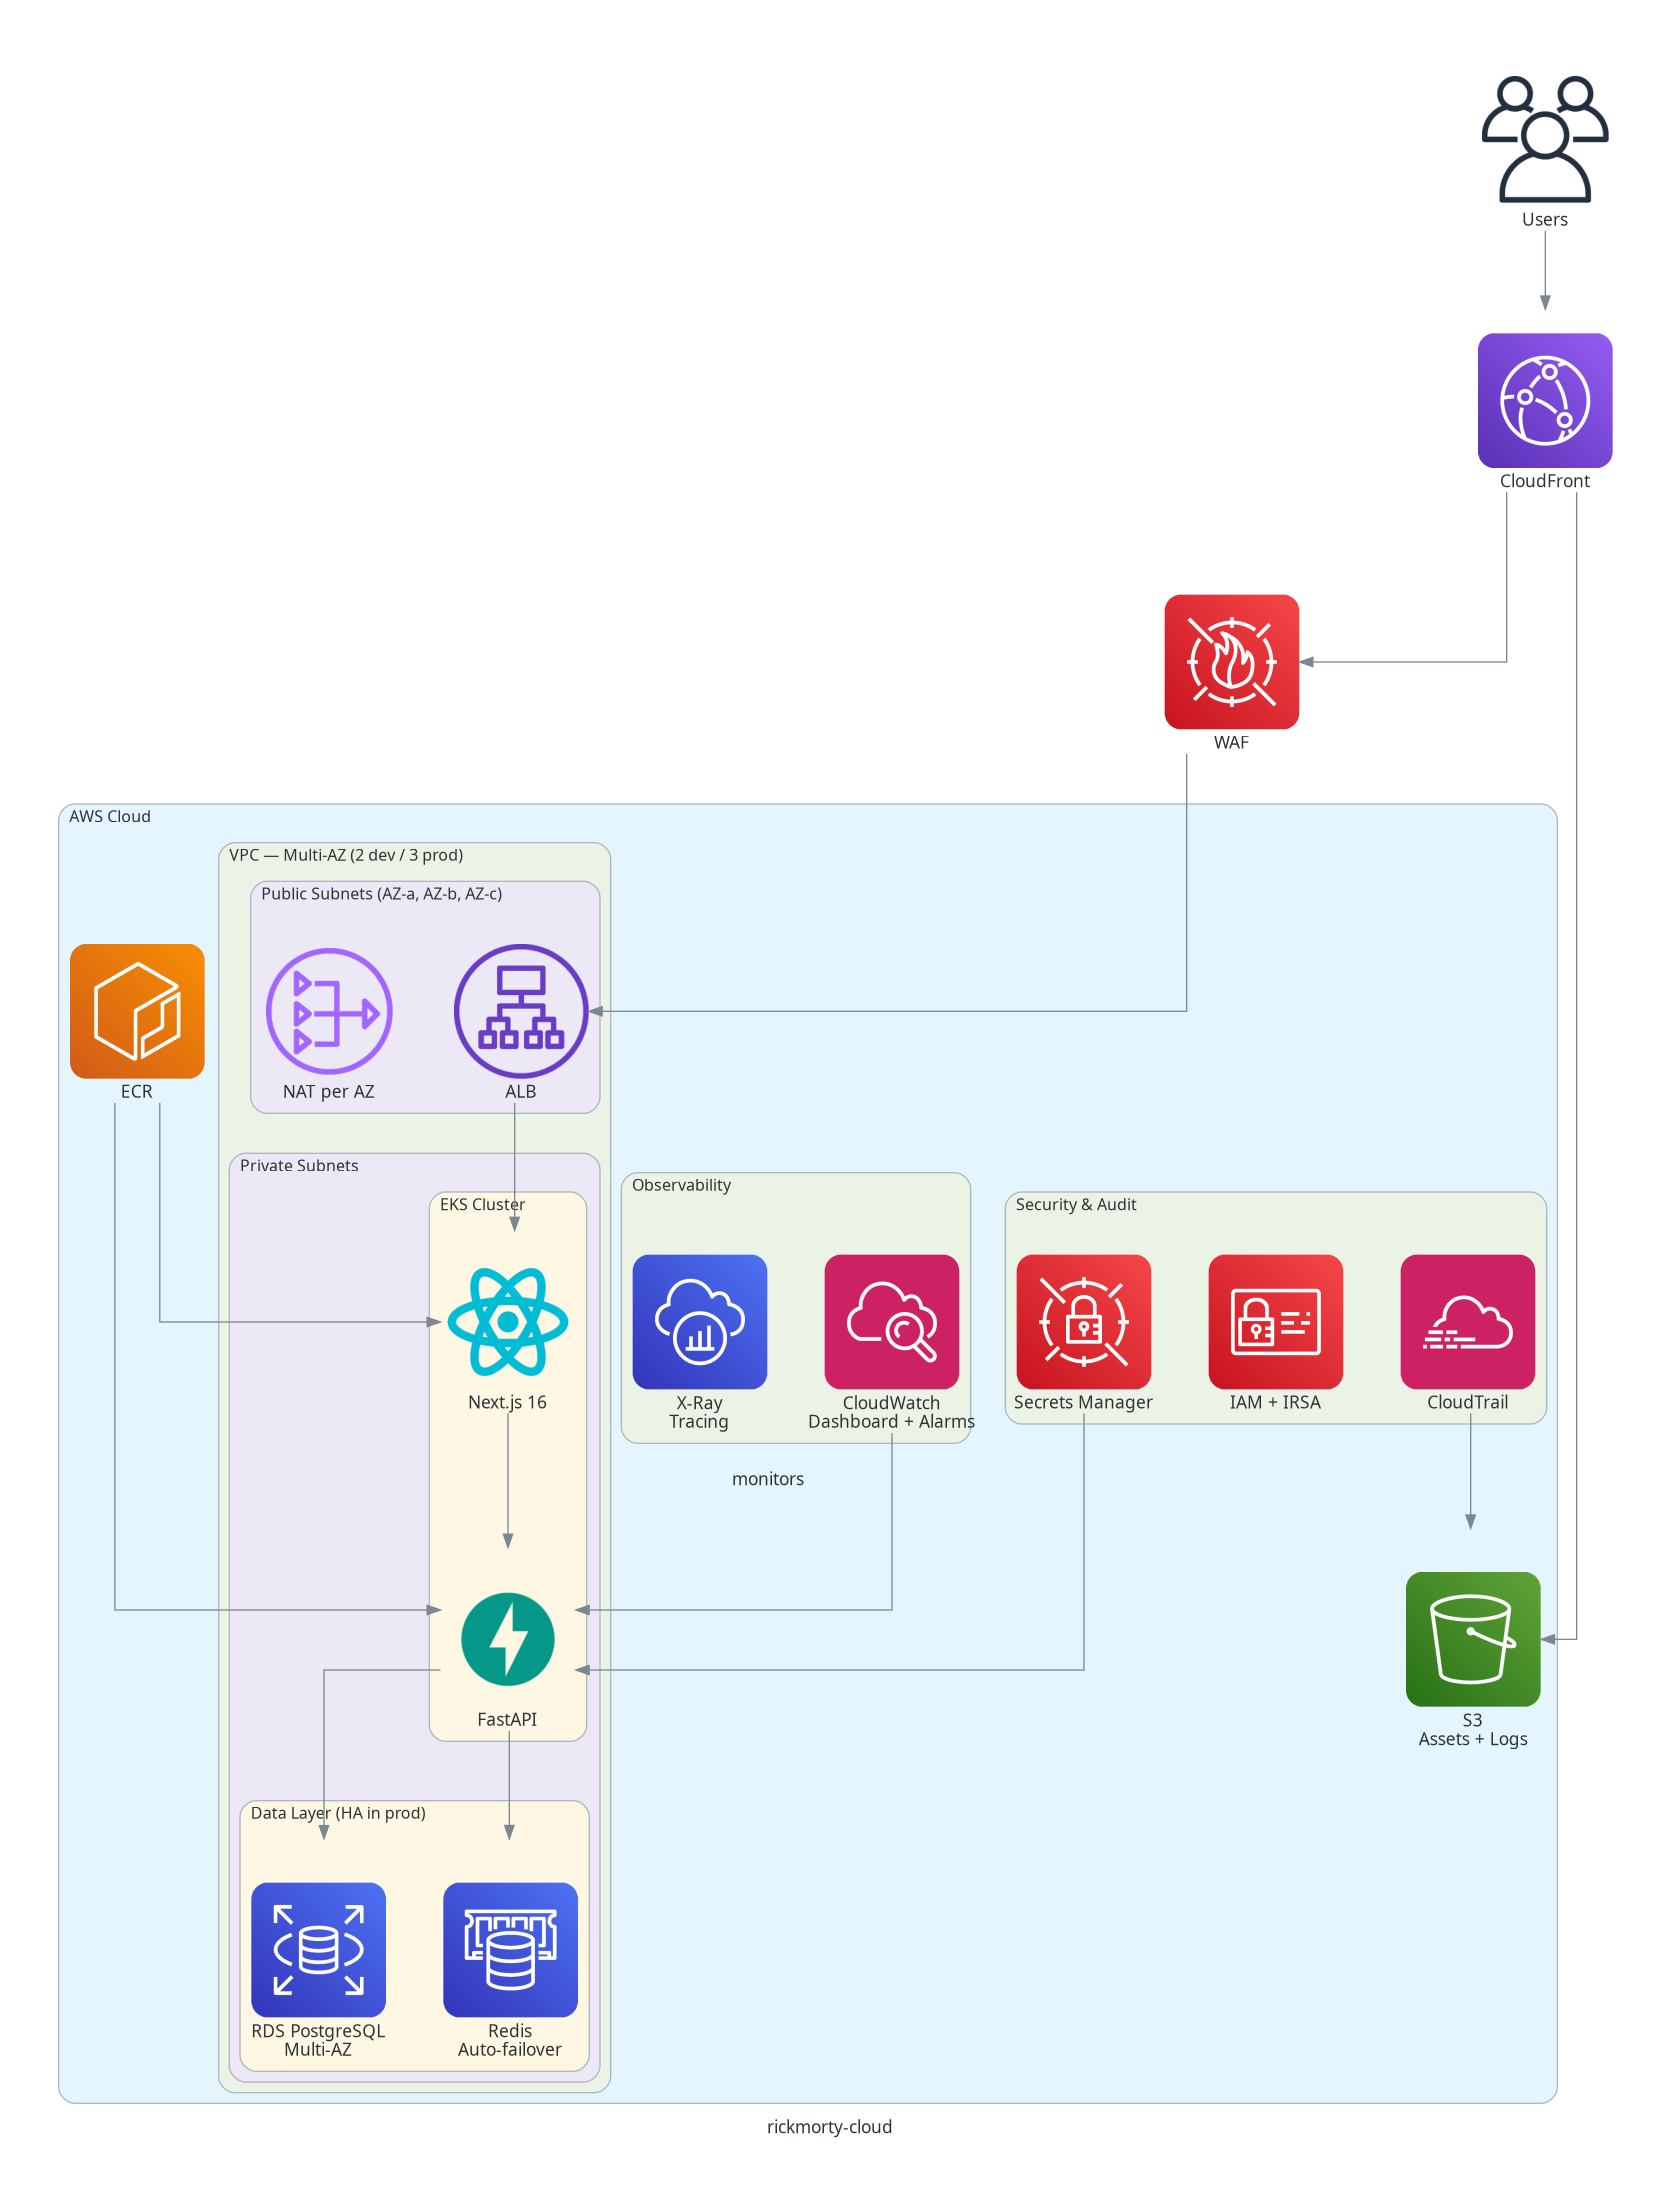
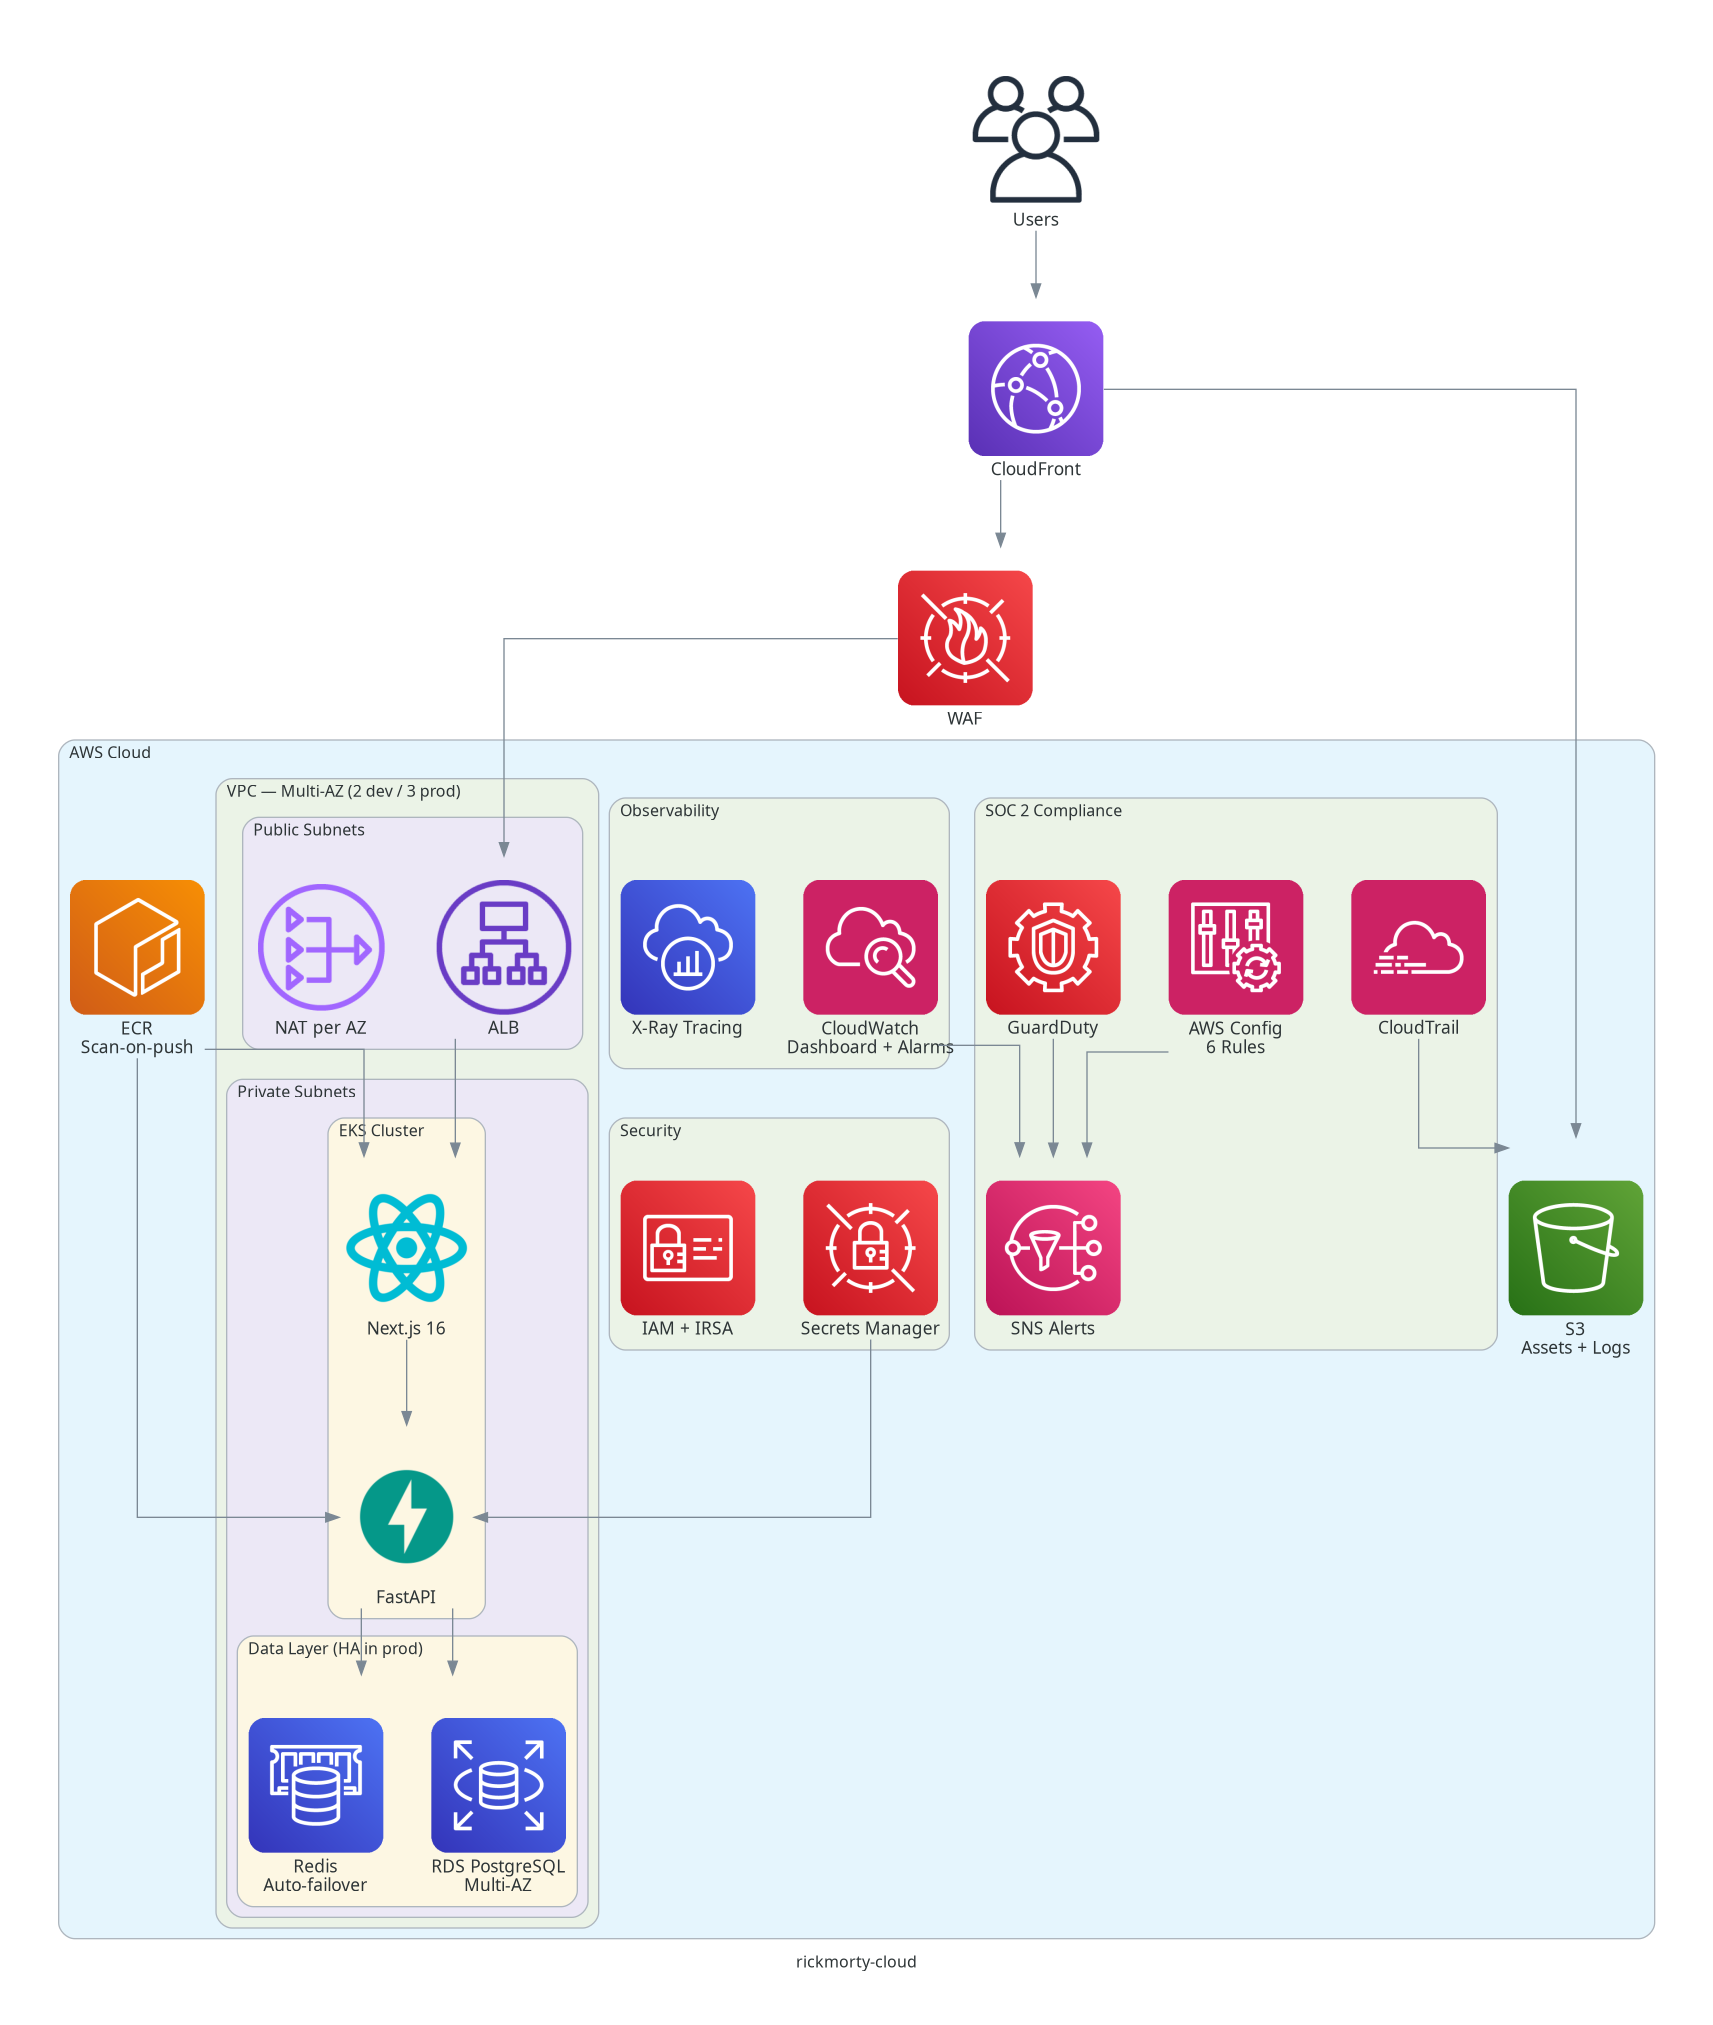
Add SOC 2 compliance module: AWS Config, GuardDuty, SNS alerts

diff --git a/README.md b/README.md
@@ -16,12 +16,14 @@ A complete cloud platform that deploys a Rick and Morty Explorer app (FastAPI + 
 
 This is how real companies run on AWS. Every module follows AWS Well-Architected best practices:
 
-- **14 Terraform modules** — VPC, EKS, IAM, ALB, RDS, Redis, S3, CloudFront, WAF, CloudTrail, ECR, Secrets Manager, CloudWatch, X-Ray
+- **15 Terraform modules** — VPC, EKS, IAM, ALB, RDS, Redis, S3, CloudFront, WAF, CloudTrail, ECR, Secrets Manager, CloudWatch, X-Ray, Compliance
+- **SOC 2 ready** — AWS Config (6 rules), GuardDuty threat detection, CloudTrail audit, SNS security alerts
 - **One-command deploy** — Docker container handles all prerequisites, `make deploy` does everything
 - **Remote state** — S3 with KMS encryption + DynamoDB locking
 - **Multi-environment** — Dev (spot, 2 AZs, minimal) vs Prod (on-demand, 3 AZs, HA)
-- **Security** — WAF (managed rules + rate limiting), KMS encryption, IRSA, VPC flow logs, CloudTrail audit, non-root containers, ECR scan-on-push, Secrets Manager
-- **Observability** — CloudWatch dashboards + alarms, X-Ray distributed tracing
+- **High availability** — Multi-AZ RDS, Redis auto-failover, NAT per AZ, min 3 nodes in prod
+- **Security** — WAF (managed rules + rate limiting), KMS encryption, IRSA, VPC flow logs, CloudTrail, GuardDuty, non-root containers, ECR scan-on-push, Secrets Manager
+- **Observability** — CloudWatch dashboards + alarms, X-Ray distributed tracing, SNS notifications
 - **Cost optimization** — Spot instances in dev, S3 lifecycle policies (Standard → IA → Glacier)
 
 ## The App
@@ -54,6 +56,9 @@ This is how real companies run on AWS. Every module follows AWS Well-Architected
 | **Secrets Manager** | `modules/secrets` | App secrets + External Secrets Operator K8s manifests |
 | **CloudWatch** | `modules/observability` | Dashboard (EKS CPU, RDS CPU, ALB requests, Redis hits), alarms (high CPU, 5xx) |
 | **X-Ray** | `modules/observability` | Distributed tracing with sampling rules and trace groups |
+| **AWS Config** | `modules/compliance` | 6 compliance rules (encryption, public access, MFA, CloudTrail) |
+| **GuardDuty** | `modules/compliance` | Threat detection and continuous security monitoring |
+| **SNS** | `modules/compliance` | Security alert notifications to email |
 
 ## Dev vs Prod
 
@@ -155,7 +160,8 @@ rickmorty-cloud/
 │   ├── cloudtrail/                # API audit to S3
 │   ├── ecr/                       # Container registry, scan-on-push
 │   ├── secrets/                   # Secrets Manager + External Secrets
-│   └── observability/             # CloudWatch dashboard + alarms + X-Ray
+│   ├── observability/             # CloudWatch dashboard + alarms + X-Ray
+│   └── compliance/                # AWS Config (6 rules) + GuardDuty + SNS alerts
 ├── environments/
 │   ├── dev/                       # Spot, 2 AZs, minimal
 │   └── prod/                      # On-demand, 3 AZs, HA